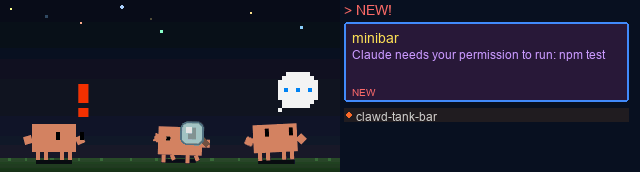
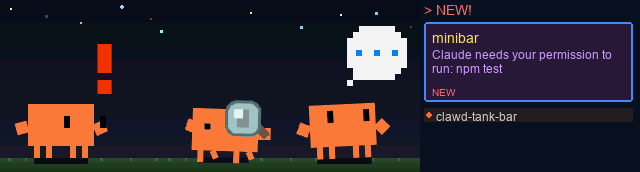
docs(bar): the 1.5x orange Clawd, with new reference renders
docs/bar/mock-wide.png and mock-notification-wide.png are redrawn from the new sprites with the 220 px panel
and the three 140 px lanes beside it; mock-disconnected.png is new. The README says how the sprites are made
(tools/build_bar_sprites.py), the y_offset rule, which animations clip or exceed a lane, and what the change costs
in flash and PSRAM; the sdkconfig bullet is back in the list it belongs to.

diff --git a/README.md b/README.md
@@ -55,15 +55,21 @@ What changed (all under `firmware/`):
 - `main/board_lv_mem.c`: LVGL's own allocations go to PSRAM (`CONFIG_LV_USE_CUSTOM_MALLOC`).
 - `main/layout.h`, `main/ui_manager.c`, `main/scene.c`, `main/notification_ui.c`: the layout is chosen at run time from `lv_display_get_horizontal_resolution()`. A 320-wide display (the original board, the simulator) keeps the original layout exactly; anything wider gets the wide layout below. There is no compile-time switch, so the simulator builds the same code.
 - `main/rgb_led.c`: a no-op on the device (the board has no LED; the simulator keeps its on-screen LED). `main/button.c`: the BOOT button is GPIO 0.
+- `sdkconfig.defaults`, `partitions.csv`, `main/idf_component.yml`: ESP32-S3 at 240 MHz, 16 MB flash (QIO, 80 MHz), octal PSRAM at 80 MHz with `malloc()` in PSRAM above 4 KB, USB Serial/JTAG console; the factory app partition grown to 0xFF0000 (the partition names stay, so `config_store` keeps its NVS); LVGL pinned to 9.5.0, `espressif/esp_lcd_axs15231b` 1.0.x added, `espressif/led_strip` dropped.
 
 ### The wide layout (640 x 172)
 
-Reference renders are in `docs/bar/`: `mock-wide.png` (quiet state, four sessions) and `mock-notification-wide.png` (a notification's hero moment, three sessions); `mock-centred.png`, `mock-notification-centred.png` and `mock-notification-centred-collapsed.png` show the 320 layout the simulator keeps, drawn inside the bar's frame as the first pass did. The mock's fonts are not Montserrat, so text widths there are approximate.
+Reference renders are in `docs/bar/`: `mock-wide.png` (quiet state, four sessions), `mock-notification-wide.png` (a notification's hero moment, three sessions, the 220 px panel) and `mock-disconnected.png` (the No connection screen), all drawn from the 1.5x sprites described below. `mock-centred.png`, `mock-notification-centred.png` and `mock-notification-centred-collapsed.png` are the first pass's 320 layout with the original-size salmon sprites. The mock's fonts are not Montserrat, so text widths there are approximate.
 
 Quiet (no notifications): the scene is the full 640 px. The sky gradient and the grass span the width, the seven-tuft pattern repeats every 160 px, and there are sixteen stars instead of six (the original six, the same six again 330 px to the right, four more in the gaps; same sizes and twinkle). Sessions get equal lanes, each sprite centred in its lane: one session at x 320; two at 160 and 480; three at 106, 320 and 533; four at 80, 240, 400 and 560 (on 320 the original table, 160 / 107 + 213 / 80 + 160 + 240 / 64 + 128 + 192 + 256, stays). The clock is top-right, 6 px in from the edge at y 4; the sub-agent counter stays top-left at (4, 2); the "+N" overflow badge keeps its rule (five or more sessions) and sits 6 px to the left of the clock.
 
-Notification state: the scene shrinks to 420 px (107 on 320) and the panel takes the remaining 220 px at x 420 (it was 300 px in the first wide version; the reference renders in `docs/bar/` still show 300). Up to three sessions stay visible, in equal lanes of 140 px (centres 70, 210 and 350; two sessions at 105 and 315; one at 210), and walk into those lanes as the scene narrows instead of being snapped; a fourth is hidden and the "xN" badge at the scene's right edge counts the total, as it did for the 320 layout's one visible crab. The panel keeps its counter label at (4, 2) and the featured card at (4, 22), 95 % wide (209 px), with the project name, the message and the badge where they were. The message wraps to the card's content width (two lines in the hero card, one once collapsed, an ellipsis after that) instead of scrolling circularly; "Claude needs your permission to run: npm test" is about 275 px in Montserrat 12 against about 193 px of card, so it wraps to two lines in the hero card and is cut with an ellipsis once collapsed. In the hero moment ("> NEW!") the card grows to 80 px rather than the whole panel, with up to three compact rows (14 px each) beneath it from y 108; the rows follow the card's bottom edge during the 350 ms collapse to the 64 px card, after which the list rebuilds at y 90 with up to five rows, as on 320. Panel fade, scene width animation (400 ms) and card collapse are the same code at both widths; walks are 600 ms as before.
-- `sdkconfig.defaults`, `partitions.csv`, `main/idf_component.yml`: ESP32-S3 at 240 MHz, 16 MB flash (QIO, 80 MHz), octal PSRAM at 80 MHz with `malloc()` in PSRAM above 4 KB, USB Serial/JTAG console; the factory app partition grown to 0xFF0000 (the partition names stay, so `config_store` keeps its NVS); LVGL pinned to 9.5.0, `espressif/esp_lcd_axs15231b` 1.0.x added, `espressif/led_strip` dropped.
+Notification state: the scene shrinks to 420 px (107 on 320) and the panel takes the remaining 220 px at x 420 (it was 300 px in the first wide version). Up to three sessions stay visible, in equal lanes of 140 px (centres 70, 210 and 350; two sessions at 105 and 315; one at 210), and walk into those lanes as the scene narrows instead of being snapped; a fourth is hidden and the "xN" badge at the scene's right edge counts the total, as it did for the 320 layout's one visible crab. The panel keeps its counter label at (4, 2) and the featured card at (4, 22), 95 % wide (209 px), with the project name, the message and the badge where they were. The message wraps to the card's content width (two lines in the hero card, one once collapsed, an ellipsis after that) instead of scrolling circularly; "Claude needs your permission to run: npm test" is about 275 px in Montserrat 12 against about 193 px of card, so it wraps to two lines in the hero card and is cut with an ellipsis once collapsed. In the hero moment ("> NEW!") the card grows to 80 px rather than the whole panel, with up to three compact rows (14 px each) beneath it from y 108; the rows follow the card's bottom edge during the 350 ms collapse to the 64 px card, after which the list rebuilds at y 90 with up to five rows, as on 320. Panel fade, scene width animation (400 ms) and card collapse are the same code at both widths; walks are 600 ms as before.
+
+### Clawd's size and colour
+
+Clawd is drawn at 1.5 times the upstream size (6 px per SVG unit instead of 4) in a brighter orange: the body is `#FF7939` on the panel (`#FF7A3D` was asked for; RGB565 shows the nearest value) instead of upstream's salmon `#D68263`. Props, eyes and the grass are untouched. The sprites in `firmware/main/assets/` are regenerated, not edited: `tools/build_bar_sprites.py` runs upstream's `svg2frames.py`, `png2rgb565.py` and `crop_sprites.py` at the new scale, with `tools/clawd_recolour.py` repainting the body between the first and the second (it also recolours the HUD's small crab, `sprite_mini_crab.h`). `py -3 tools/build_bar_sprites.py --install` rebuilds all of them in about two minutes (it needs Playwright with Chromium); `--scale 4 --colour none` gives upstream's own sprites back. The No connection screen (`sprite_disconnected.h`) is drawn at 1.25x (`--disconnected-scale 5`), because its Bluetooth bubble does not fit the 172 px height at 1.5x.
+
+In `scene.c`, `y_offset` keeps each sprite's ground line 8 px above the bottom of the screen: 16 minus the rows cropped at the bottom, plus upstream's hand trims (the rule is in the comment above `anim_defs`). At 1.5x every sprite fits the 172 px height except the wizard's top sparkles (they fly off the top, up to 31 px) and the beacon's outer ring (6 px). The four main working sprites (typing, debugger, thinking, conducting) are at most 130 px wide, so four fit the quiet layout's 160 px lanes and three the 140 px lanes beside the notification panel (`LANE_MIN_PX` is 140). Some rarer animations are wider than a lane with their props (confused 228 px, going away 254, sweeping 210, building 186, happy 186, alert 178) and may overlap a neighbour while they play. The 320 layout (the simulator) has not been retuned for the bigger sprites. The app image is 2.6 MB (84 % of the 16 MB partition free, +0.55 MiB for the sprites), and a session's frame buffer is up to 116 KB, in PSRAM.
 
 Build with ESP-IDF 5.4.2 (the component manager fetches LVGL and the panel driver on the first configure):
 
@@ -182,7 +188,7 @@ The daemon auto-starts on the first hook event. Logs at `~/.clawd-tank/daemon.lo
 - **Session persistence** — session state survives daemon restarts, so relaunching the app immediately shows the correct animation for running sessions
 - **Time display** — synced from host over BLE on connect (no WiFi/NTP needed)
 - **RGB LED flash** — onboard WS2812B cycles through colors on new notifications
-- **RLE sprite compression** — all sprite assets compressed ~14:1 (13MB raw → ~900KB)
+- **RLE sprite compression** — all sprite assets compressed ~14:1 (13MB raw → ~900KB upstream; ~1.7MB for the bar's 1.5x sprites)
 - **Bundled simulator** — macOS `.app` ships with the simulator binary, no hardware needed. Borderless resizable window with integer pixel scaling
 - **Multi-transport** — daemon supports BLE (hardware) and TCP (simulator) transports simultaneously, independently enable/disable
 - **Simulator bridge** — full pipeline works without hardware via `--listen` flag and TCP. Window show/hide/pinned controlled over TCP
